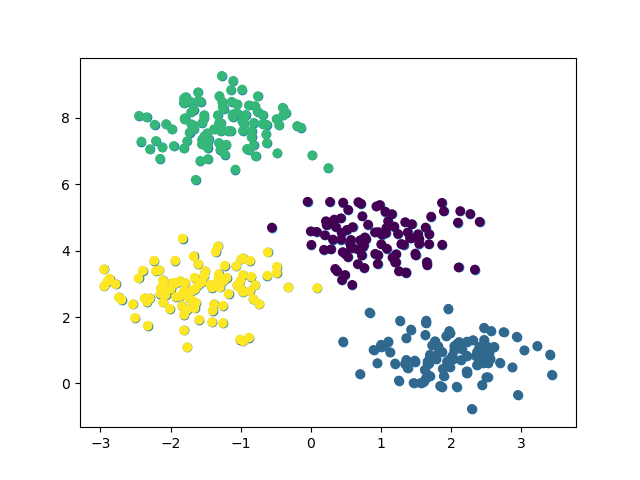
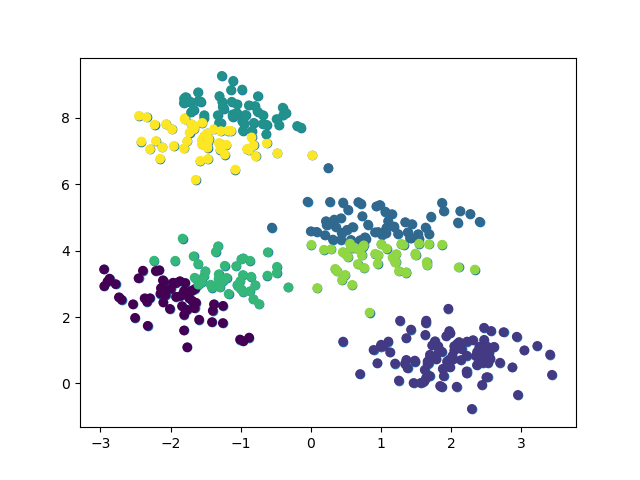
trying with different number of clusters

diff --git a/run_kmc.py b/run_kmc.py
@@ -11,7 +11,7 @@ X,Y = make_blobs(n_samples=400, centers=4, cluster_std=0.60, random_state=0)
 plt.scatter(X[:,0], X[:,1])
 plt.savefig('scatterplot.png')
 
-kmeans = KMeans(n_clusters=4)
+kmeans = KMeans(n_clusters=7)
 kmeans.fit(X)
 kmeans_results = kmeans.predict(X)
 
